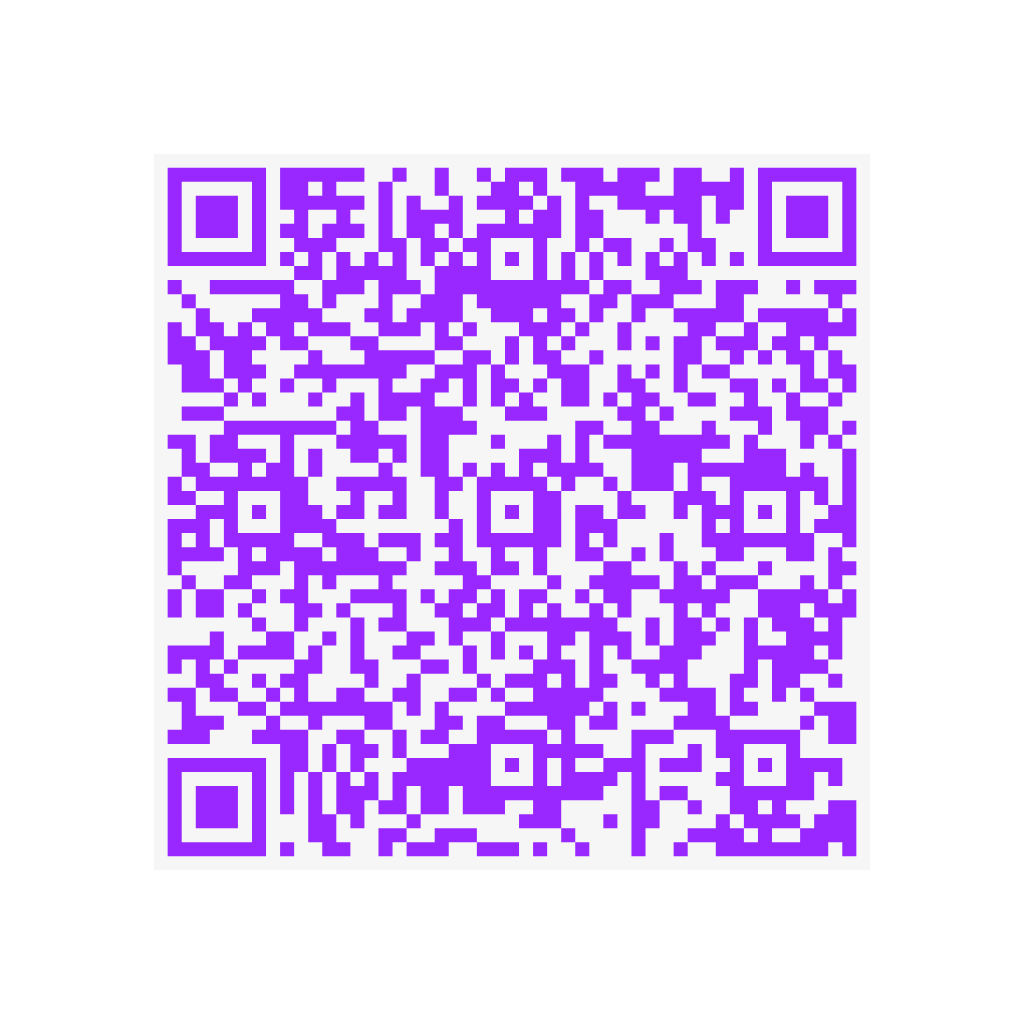
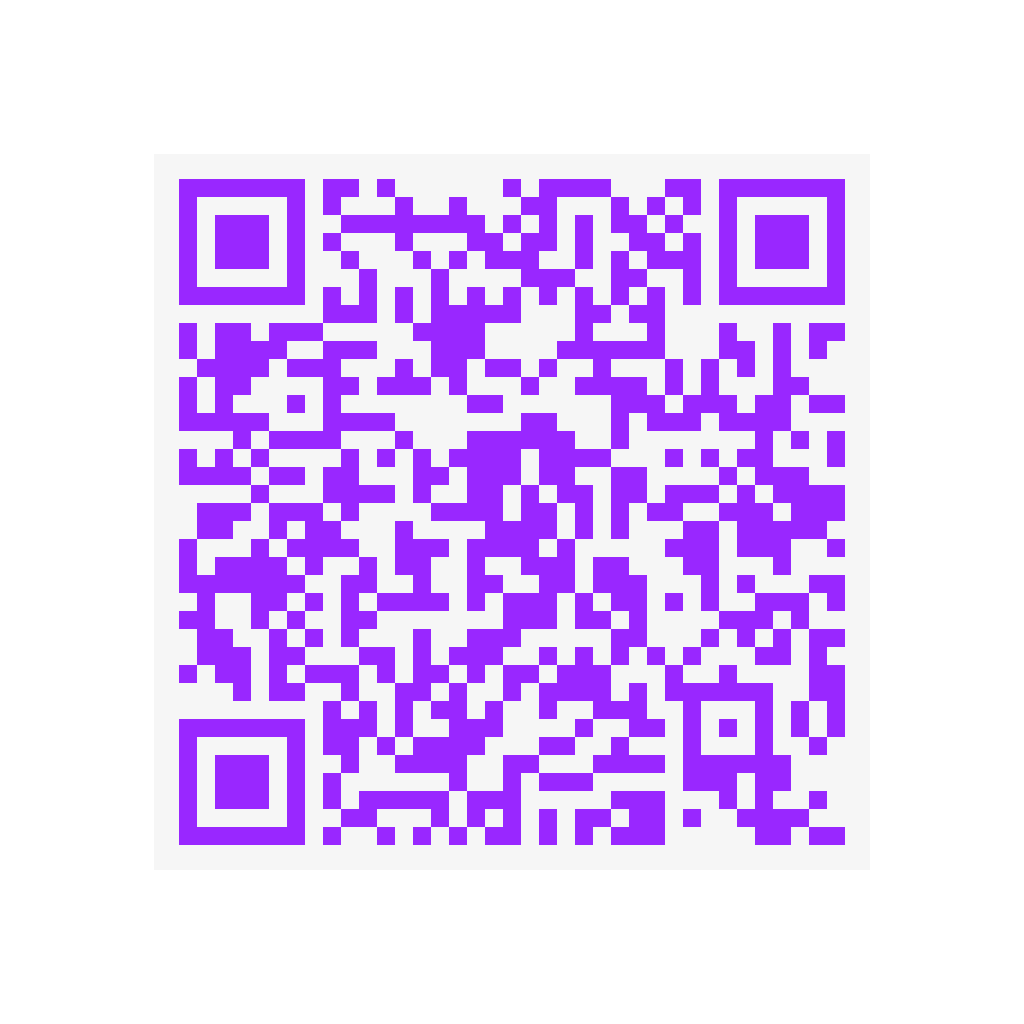
feat(web): App Store links carry campaign tokens
Every App Store link on the site now has pt/ct so App Store Connect
Analytics › Campaigns counts the installs it brings:
- web_home: homepage store buttons (ar + en)
- web_qr: the desktop QR card (QR image regenerated to encode it)
- web_quran: quran-parser pages, opening the Quran custom product page

Structured data keeps the plain store URL.

Changed region(s): [[0.1562, 0.1562, 0.8438, 0.8438]]

diff --git a/src/lib/stores.ts b/src/lib/stores.ts
@@ -1,0 +1,15 @@
+/**
+ * App Store links carry a campaign token so App Store Connect › Analytics ›
+ * Campaigns can count the installs each placement brings. A `ppid` opens one
+ * of the app's custom product pages instead of the default listing (until
+ * Apple approves that page, the store just shows the default one).
+ */
+const APP_STORE = 'https://apps.apple.com/app/apple-store/id6765811277';
+const PROVIDER_TOKEN = '128779703';
+
+export const QURAN_PRODUCT_PAGE = '02fd5241-166d-4771-bc68-ca7ad98208f8';
+
+export function appStoreUrl(campaign: string, productPage?: string): string {
+  const url = `${APP_STORE}?pt=${PROVIDER_TOKEN}&ct=${campaign}&mt=8`;
+  return productPage ? `${url}&ppid=${productPage}` : url;
+}
